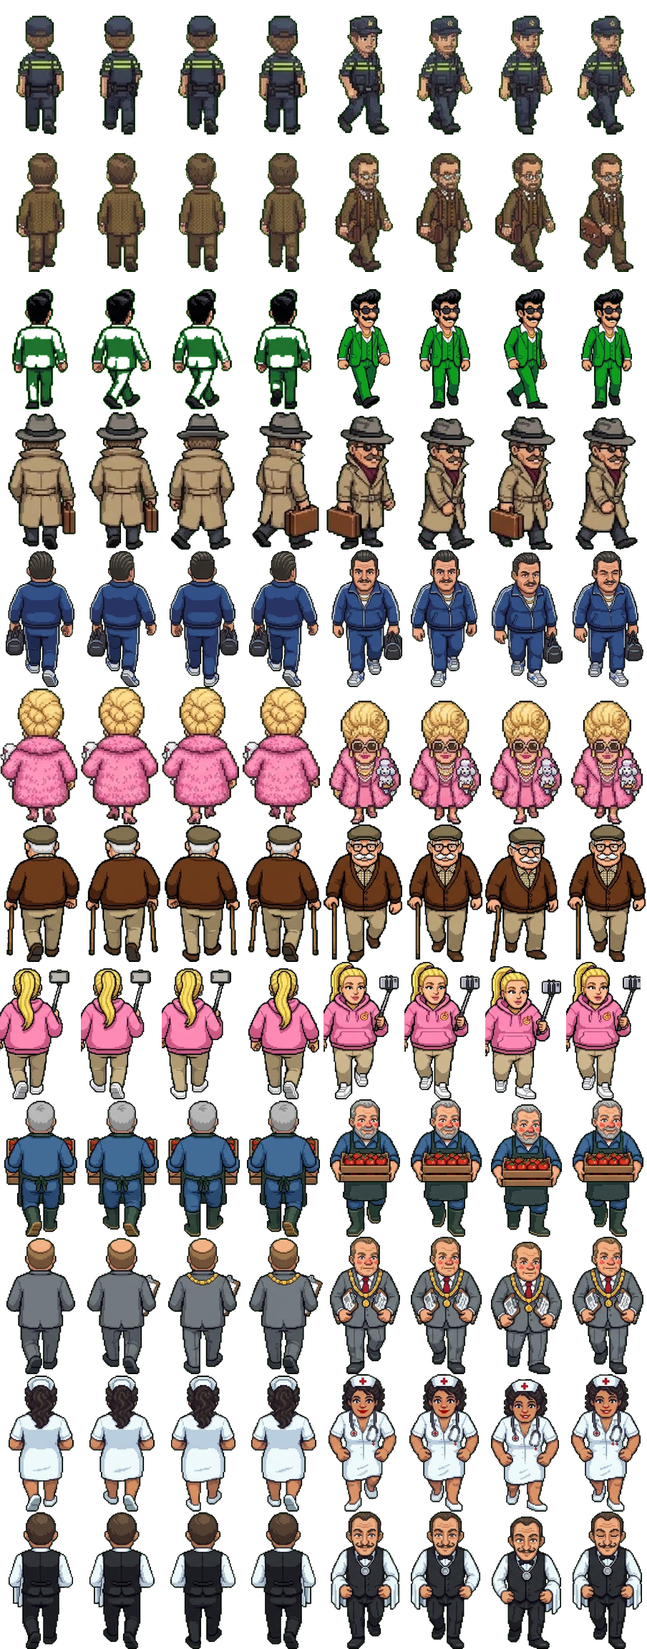
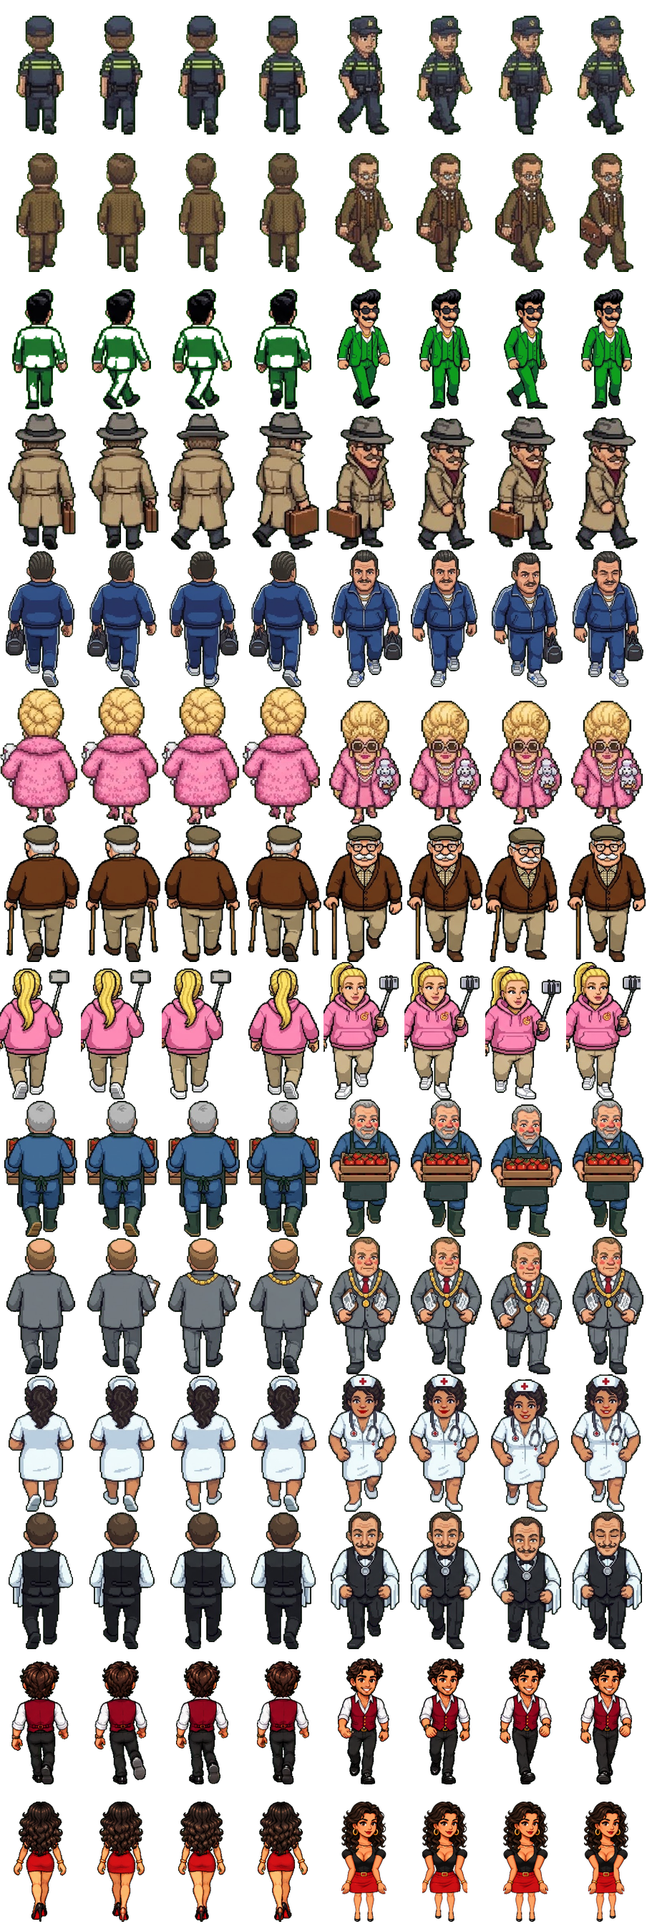
Pizzabaas: verliefd koppel Marco en Valentina (verhaal, filmpjes, plaatjes), Barrie niet langs tijdens een klus
Claude-Session: https://claude.ai/code/session_01A1NZDKEqH4AvFTuhgNYDbP

diff --git a/pizzabaas.html b/pizzabaas.html
@@ -73,7 +73,7 @@
   #vraagkaart { text-align: center; max-width: 400px; animation: plop .25s ease-out; }
   @keyframes plop { from { transform: scale(.7); opacity: 0; } }
   .vraagik { font-size: 54px; line-height: 1.1; }
-  .portret { width: 85px; height: 155px; margin: -6px auto 0; background: url(pizza/portretten.png) 0 0 / 1615px 155px no-repeat; image-rendering: pixelated; } /* agent, inspecteur (uit pizza/agent-gemini.jpg, pizza/inspecteur-gemini.jpg) */
+  .portret { width: 85px; height: 155px; margin: -6px auto 0; background: url(pizza/portretten.png) 0 0 / 1785px 155px no-repeat; image-rendering: pixelated; } /* agent, inspecteur (uit pizza/agent-gemini.jpg, pizza/inspecteur-gemini.jpg) */
   .vraagwie { font-weight: 800; color: #b5381c; font-size: 15px; }
   .vraagtekst { font-size: 17px; margin: 8px 0 12px; }
   .antwoord { display: block; width: 100%; text-align: left; border: 0; background: #f1e1c4; color: #3a2414; border-radius: 12px; padding: 10px 12px; margin: 7px 0 0; font: 600 15px system-ui, sans-serif; cursor: pointer; }
@@ -192,6 +192,10 @@
   <div style="height:56px;margin:4px 0"><button class="knop rood verborgen" id="eetdrink" style="font-size:22px">🥤 Slurp!</button></div>
   <div id="eetklok" style="font:700 28px system-ui">20</div><div id="eetbord" class="buurt" style="margin:6px 0;text-align:left"></div>
   <div class="rij" style="justify-content:center"><button class="knop" id="eetdicht">Sluiten</button></div></div></div>
+<div class="scherm verborgen" id="film" style="z-index:10"><div class="kaart" style="max-width:420px;text-align:center;padding:14px">
+  <h1 id="filmtitel" style="margin:0 0 6px"></h1>
+  <canvas id="filmdoek" width="360" height="420" style="width:100%;max-width:360px;aspect-ratio:6/7;display:block;margin:0 auto;border-radius:12px"></canvas>
+  <div class="rij" style="justify-content:center;margin-top:8px"><button class="knop rood" id="filmverder">Verder (overslaan)</button></div></div></div>
 <div class="scherm verborgen" id="race" style="z-index:10"><div class="kaart" style="max-width:420px;text-align:center;padding:14px">
   <h1 style="margin:0 0 4px">🦼 Scootmobielrace</h1><div id="racetekst" class="buurt" style="margin:0 0 6px"></div>
   <canvas id="racedoek" width="360" height="540" style="width:100%;max-width:360px;aspect-ratio:2/3;display:block;margin:0 auto;border-radius:12px;touch-action:none;cursor:pointer"></canvas>
@@ -681,6 +685,7 @@ function openDeuren() {
   vandaag.aankomst *= (BUURT[S.buurt] || BUURT.oud).aankomst; if (klusLoopt()) vandaag.aankomst *= 1 + KLUS[S.klus.k].bonus; /* Barrie heeft Luigi een hak gezet */ if (torenOpen()) vandaag.aankomst *= 1.1; /* toeristen voor de toren */ if (reclameAan()) vandaag.aankomst *= 1.15; /* reclamebord */ if (kunstAan()) { vandaag.gezellig += 0.5; vandaag.fooi *= 1.1; } /* geleend meesterwerk */ const fd = feestdag(); vandaag.aankomst *= DRUKTE[weekdag()] * (fd ? fd.aankomst : 1); vandaag.kaars = fd && fd.kaars;
   if (belastingDag() && S.belasting > 0) vraagTijden.push(-1); // de inspecteur komt vandaag (een vraag met voorrang)
   if (belastingDag() && S.geld > 400 && S.dag >= 8 && !(S.luigiRust > S.dag) && kans(0.3 + Math.min(0.3, (S.ruzie || 0) / 200))) ochtendVraag(crewVraag(), 2500); // Luigi weet ook wanneer de belasting komt…
+  liefdeOchtend(); // verliefd koppel: Valentina, Luigi, het aanzoek
   if (S.tehuis && weekdag() == 6) ochtendVraag(tehuisVraag(), 3500); // zondag: pizzamiddag in Huize Avondrood
   if (S.luigiDicht == S.dag) { vandaag.aankomst *= S.luigiFlyers ? 1.5 : 1.3; S.luigiFlyers = false; setTimeout(() => meld(`🔧 Luigi's oven is kapot! Zijn klanten komen vandaag naar jou${vandaag.aankomst > 1.4 ? ', en je flyers doen de rest' : ''}.`, 4000), 2000); }
   setTimeout(() => meld(fd ? fd.tekst : ['Maandag: rustig dagje.', '', '', '', 'Vrijdagavond: het wordt druk!', 'Zaterdagavond: de drukste avond van de week!', 'Zondag: gezinnen en opa\'s en oma\'s.'][weekdag()] || ''), 300);
@@ -1604,6 +1609,77 @@ const VRAGEN = [
       ['Alleen als er geen ananas op komt.', () => 'Mario: "Waarom zou ik ananas… o. Ja. Afgesproken."'] ] },
 ];
 // vaste figuren: ze komen echt binnen (rij in pizza/bezoekers.png, portret in pizza/portretten.png; uit pizza/<naam>-gemini.jpg)
+// ---------- verliefd koppel (14 nov): Marco, je jongste ober, en Valentina, de dochter van Luigi ----------
+// S.liefde = { fase, dag, hart?, geheim?, boos? }: 0 = nog niet / later opnieuw (vanaf dag), 1 = Marco is verliefd (Valentina komt), 2 = etentje
+// geweest (Luigi komt erachter), 3 = Luigi weet het (Marco wil aanzoek doen), 5 = getrouwd, 9 = voorbij. Vragen via `liefdeOchtend` (S.verplicht) en
+// 'marco1' (willekeurig, zaak 1). Plaatjes: bezoekers rij 12 Marco / 13 Valentina, portret 19/20, pizza/koppel.png (filmpje `toonFilm`).
+const KOPPEL = new Image(); KOPPEL.src = 'pizza/koppel.png';
+function liefdeOchtend() { const L = S.liefde; if (!L || S.zaak) return; let id = null;
+  if (L.fase == 1 && S.dag >= L.dag + (L.hart ? 1 : 2)) id = 'valentina1';
+  else if (L.fase == 2 && S.dag >= L.dag + 1 + (S.dag % 2)) id = 'luigiLiefde';
+  else if (L.fase == 3 && S.dag >= L.dag + 4) id = 'marco2';
+  if (id && !(S.verplicht || []).includes(id)) S.verplicht = [...(S.verplicht || []), id]; }
+const LIEFDEVRAGEN = [
+  { id: 'marco1', ik: '🤵', portret: 19, rij: 12, wie: 'Marco, je jongste ober', kans: 3, als: () => !S.zaak && S.dag >= 6 && (!S.liefde || (S.liefde.fase == 0 && S.dag >= S.liefde.dag)),
+    vraag: 'Baas… mag ik je iets vragen? Er werkt een meisje bij Luigi. Ze ruimt de tafels af en ze lacht als een zonsopgang. Valentina. Zijn… dochter. Ik geloof dat ik verliefd ben.',
+    a: [['Ga ervoor, Marco!', () => { S.liefde = { fase: 1, dag: S.dag }; return 'Marco straalt. Hij serveert de rest van de avond met een grijns tot achter zijn oren, en zingt zachtjes mee met de jukebox.'; }],
+      ['De dochter van de vijand? Vergeet het maar.', () => { S.liefde = { fase: 0, dag: S.dag + 10 }; oberTempo(0.9); return 'Marco zucht. De hele avond. Diep. Hij laat twee borden vallen en staart naar het raam van Luigi.'; }],
+      ['Stuur haar een pizza met een hartje van salami (€ 10).', () => { ge(-10); S.liefde = { fase: 1, dag: S.dag, hart: true }; return 'Mario bakt de mooiste pizza van zijn leven, met een hartje van salami. Marco brengt hem stiekem naar de achterdeur van Luigi. Spannend…'; }] ] },
+  { id: 'valentina1', ik: '💃', portret: 20, rij: 13, wie: 'Valentina, de dochter van Luigi', als: () => false,
+    vraag: () => `Ciao… Ik ben Valentina. Ja, die van Luigi. Is Marco er? Hij ${S.liefde && S.liefde.hart ? 'stuurde me een pizza met een hartje van salami. Niemand heeft ooit…' : 'staat al een week naar ons raam te staren. Het is schattig. En een beetje eng.'} Mijn vader mag dit nooit weten.`,
+    a: [['Hij is er! Ik dek een tafel voor jullie, met kaarsjes.', () => { S.liefde = { ...S.liefde, fase: 2, dag: S.dag }; naVraag = () => toonFilm('etentje'); return 'Je zet een tafeltje achterin, met een kaarsje en een fles van het huis. Marco trekt zijn mooiste gilet aan.'; }],
+      ['Je vader vermoordt me. Ga maar snel.', () => { S.liefde = { ...S.liefde, fase: 1, dag: S.dag + 3 }; return 'Ze knikt verdrietig en glipt weg. In de keuken laat Marco een stapel borden vallen. Misschien komt ze nog terug…'; }],
+      ['Eerst vertellen: wat is het geheim van Luigi\'s saus?', () => { S.liefde = { ...S.liefde, fase: 2, dag: S.dag, geheim: true }; rep(1); naVraag = () => toonFilm('etentje');
+        return 'Ze buigt zich naar je toe. "Ketchup. Uit een fles. Met een scheutje cola." Je weet niet of je moet lachen of huilen. Daarna dek je een tafeltje voor haar en Marco.'; }] ] },
+  { id: 'luigiLiefde', ik: '😡', portret: 3, rij: 2, wie: 'Luigi (rood aangelopen)', als: () => false,
+    vraag: () => `MIJN DOCHTER?! Met jouw OBER?! Ik heb ze gezien. Door het raam. Met KAARSJES.${S.liefde && S.liefde.geheim ? ' En ze heeft je het geheim van mijn saus verteld?! Mijn eigen vlees en bloed!' : ''} Wat heb je hierop te zeggen?`,
+    a: [['Liefde kent geen grenzen, Luigi.', () => { const L = S.liefde; L.fase = 3; L.dag = S.dag;
+        if (kans(S.ruzie < 30 ? 0.75 : 0.5)) { S.luigiRust = S.dag + 10; S.ruzie = Math.max(0, (S.ruzie || 0) - 20); return 'Luigi wil iets roepen, maar er komt alleen een snik uit. "Dat zei haar moeder ook… dertig jaar geleden." Hij snuit zijn neus in een pizzadoos. Wapenstilstand!'; }
+        L.boos = true; S.ruzie = Math.min(100, (S.ruzie || 0) + 25); S.sabotage = pak(['rat', 'stinkbom']); return '"GRENZEN?! Ik zal jou eens grenzen laten zien!" Hij stormt naar buiten. Morgen kun je iets verwachten. Maar Marco en Valentina laten zich niet tegenhouden.'; }],
+      ['Ik zal Marco ontslaan.', () => { S.liefde = { fase: 9, dag: S.dag }; S.ruzie = Math.max(0, (S.ruzie || 0) - 10); rep(-2); return 'Luigi knikt tevreden. Marco pakt zijn spullen en vertrekt naar zijn tante in Napels. Valentina huilt een week. De hele buurt vindt je harteloos.'; }],
+      ['Dan worden we familie, Luigi!', () => { const L = S.liefde; L.fase = 3; L.dag = S.dag; S.ruzie = Math.min(100, (S.ruzie || 0) + 10); return 'Luigi wordt wit. Dan groen. Dan valt hij flauw, precies in een stapel pizzadozen. Mario zet er een glas water naast.'; }] ] },
+  { id: 'marco2', ik: '💍', portret: 19, rij: 12, wie: 'Marco, je jongste ober', als: () => false,
+    vraag: () => `Baas. Ik ga Valentina ten huwelijk vragen. Hier, in jouw zaak. ${S.liefde && S.liefde.boos ? 'Haar vader is nog steeds woedend, maar ze zegt: liefde wint.' : 'Zelfs Luigi heeft zijn zegen gegeven… nou ja, hij gromde.'} Mag ik de ring in een calzone verstoppen?`,
+    a: [['Natuurlijk! En de bruiloft vieren we hier!', () => { const L = S.liefde; L.fase = 5; L.dag = S.dag; S.dicht = 'De zaak was afgehuurd voor de bruiloft van Marco en Valentina!'; ge(500); rep(4);
+        let t = 'Valentina bijt bijna een tand stuk op de ring, en zegt JA! Morgen is de bruiloft in jouw zaak (gewone klanten blijven buiten): + € 500 van de gasten.';
+        if (!L.boos || kans(0.5)) { S.luigiRust = S.dag + 30; S.ruzie = 0; L.vrede = true; t += ' En Luigi? Die huilt de hele avond van geluk en danst met Mario. Een maand lang vrede!'; }
+        else { S.ruzie = Math.min(100, (S.ruzie || 0) + 10); t += ' Luigi staat buiten met een bord: "NOOIT!". Maar binnen danst iedereen.'; }
+        naVraag = () => toonFilm('bruiloft'); return t; }],
+      ['Doe het maar bij Luigi, daar is meer plek.', () => { S.liefde = { ...S.liefde, fase: 5, dag: S.dag, vrede: true }; S.luigiRust = S.dag + 14; S.ruzie = Math.max(0, (S.ruzie || 0) - 15); return 'De bruiloft is bij Luigi. Hij betaalt alles, en zet een bord in zijn raam: "Met dank aan de buren." De ruzie zakt flink.'; }],
+      ['Nog even wachten, Marco. Het gaat zo snel.', () => { S.liefde.dag = S.dag + 2; return '"Je hebt gelijk, baas." Hij oefent nog een week zijn knieval in de koelcel.'; }] ] } ];
+// het filmpje: etentje (kaarsjes, Luigi gluurt door het raam) of bruiloft (confetti)
+function toonFilm(soort) {
+  pauze = true; $('film').classList.remove('verborgen'); $('filmtitel').textContent = soort == 'bruiloft' ? '💍 De bruiloft' : '🕯 Een tafeltje voor twee';
+  const c = $('filmdoek'), g2 = c.getContext('2d'), W2 = 360, H2 = 420, start = performance.now(), duur = soort == 'bruiloft' ? 9 : 10;
+  const zinnen = soort == 'bruiloft' ? [[0, 'Marco en Valentina zeggen JA!'], [3, 'Mario bakt een taart van pizza.'], [6, S.liefde && S.liefde.vrede ? 'Luigi huilt van geluk…' : 'Luigi staat buiten met een bord…']]
+    : [[0, 'Marco schenkt in. Zijn handen trillen.'], [3, 'Valentina lacht om een slechte grap.'], [6, 'Ze delen de laatste punt…'], [8.2, '…maar wie kijkt daar door het raam?!']];
+  speelLied(soort == 'bruiloft' ? 'vincero' : 'donna'); const confetti = Array.from({ length: 60 }, () => ({ x: Math.random() * W2, y: -Math.random() * H2, v: 40 + Math.random() * 60, k: pak(['#e74c3c', '#f1c40f', '#2ecc71', '#fff', '#ff6fa5']) }));
+  $('filmverder').onclick = () => { $('film').classList.add('verborgen'); pauze = false; };
+  (function lus(nu) {
+    if ($('film').classList.contains('verborgen')) return; const t = (nu - start) / 1000;
+    g2.fillStyle = soort == 'bruiloft' ? '#fbe3ec' : '#3b2418'; g2.fillRect(0, 0, W2, H2);
+    // raam met de nacht (of bloemen)
+    g2.fillStyle = soort == 'bruiloft' ? '#fff' : '#152238'; g2.fillRect(120, 30, 120, 90); g2.strokeStyle = '#6b4a2b'; g2.lineWidth = 6; g2.strokeRect(120, 30, 120, 90); g2.beginPath(); g2.moveTo(180, 30); g2.lineTo(180, 120); g2.stroke();
+    if (soort != 'bruiloft') { g2.fillStyle = '#fff8'; for (let i = 0; i < 6; i++) g2.fillRect(130 + (i * 37) % 100, 40 + (i * 23) % 60, 2, 2); }
+    else { g2.font = '26px system-ui'; g2.textAlign = 'center'; g2.fillText('💐 💒 💐', 180, 85); }
+    // Luigi gluurt (etentje, aan het eind) of huilt / bord (bruiloft)
+    if (BEZOEK.complete && ((soort != 'bruiloft' && t > 8) || (soort == 'bruiloft' && t > 6))) { g2.save(); g2.beginPath(); g2.rect(123, 33, 114, 84); g2.clip(); g2.drawImage(BEZOEK, 4 * 113, 2 * 192, 113, 192, 150, 40, 60, 102); g2.restore();
+      g2.font = 'bold 30px system-ui'; g2.textAlign = 'center'; g2.fillStyle = '#e74c3c'; if (soort != 'bruiloft') g2.fillText('!!', 250, 60); else g2.fillText(S.liefde && S.liefde.vrede ? '😭' : '🪧', 250, 70); }
+    // tafel met kleed en kaars
+    g2.fillStyle = '#fff'; g2.fillRect(80, 300, 200, 18); g2.fillStyle = '#e9e1d2'; g2.fillRect(80, 318, 200, 70); g2.fillStyle = '#c0392b'; for (let i = 0; i < 10; i++) g2.fillRect(80 + i * 20, 318, 10, 70);
+    if (soort != 'bruiloft') { g2.fillStyle = '#f5f0e0'; g2.fillRect(176, 270, 8, 30); const fl = 1 + Math.sin(t * 13) * 0.15; g2.fillStyle = '#ffb700'; g2.beginPath(); g2.ellipse(180, 262, 4 * fl, 9 * fl, 0, 0, 7); g2.fill(); }
+    else { g2.font = '40px system-ui'; g2.textAlign = 'center'; g2.fillText('🎂', 180, 300); }
+    // Marco links, Valentina rechts (zitten: 0 zit, 1 pizza, 2 benen over elkaar, 3 wijn)
+    const vol = [0, 3, 1, 3, 2, 0], f = vol[Math.floor(t / 1.6) % vol.length], fv = vol[(Math.floor(t / 1.6) + 2) % vol.length];
+    if (KOPPEL.complete && KOPPEL.naturalWidth) { g2.drawImage(KOPPEL, f * 200, 0, 200, 260, -5, 140, 160, 208); g2.drawImage(KOPPEL, fv * 200, 260, 200, 260, 205, 140, 160, 208); }
+    // hartjes of confetti
+    g2.font = '20px system-ui'; g2.textAlign = 'center';
+    if (soort != 'bruiloft') for (let i = 0; i < 5; i++) { const y = 260 - ((t * 30 + i * 50) % 200); g2.globalAlpha = Math.min(1, y / 120); g2.fillText('❤', 150 + Math.sin(t * 2 + i) * 30 + i * 12, y); } else for (const k of confetti) { k.y += k.v / 60; if (k.y > H2) k.y = -10; g2.fillStyle = k.k; g2.fillRect(k.x, k.y, 5, 8); }
+    g2.globalAlpha = 1; const z = zinnen.filter(([s]) => t >= s).pop(); if (z) { g2.fillStyle = '#000a'; g2.fillRect(0, H2 - 44, W2, 44); g2.fillStyle = '#fff'; g2.font = '16px system-ui'; g2.fillText(z[1], 180, H2 - 17); }
+    if (t > duur) $('filmverder').textContent = 'Verder'; requestAnimationFrame(lus);
+  })(performance.now());
+}
+VRAGEN.push(...LIEFDEVRAGEN);
 const FIGUUR = {
   henk: { wie: 'Opa Henk', rij: 6, portret: 7, ids: ['gebit', 'snurk', 'snorren', 'henkdans', 'henkverhaal'] },
   kim: { wie: 'Kimberley, influencer', rij: 7, portret: 8, ids: ['influencer', 'champagne', 'prank', 'kimnaam', 'kimsaai'] },
@@ -1657,7 +1733,7 @@ function haakPlek() { // waar je moet staan om de sleutel te pakken: naast het s
 function naarAchter() { achterPauze = true; S.achterDag = S.dag; vandaag.sleutelWeg = true; bewaar(); tekenKnoppen(); toonAchterkamer(); }
 function kamerBezoek() { // wie komt er vandaag voor de achterkamer (of niemand)? Een droge vervalsing wordt opgehaald
   const droogLigt = (S.vervalsingen || []).some((f) => f.dag < S.dag);
-  if (S.barrie && kans(0.2)) return 'barrieLangs';
+  if (S.barrie && !klusLoopt() && kans(0.2)) return 'barrieLangs'; // niet als er nog een klus loopt: dan valt er niks te kiezen
   if (!S.zaak) return droogLigt ? (kans(0.75) ? (kans(0.35) ? 'gravin' : 'koper') : null) : kans(0.4) ? 'gerritlangs' : null;
   return kans(0.4) ? { studenten: 'kamerStudent', toeristen: 'kamerGokker', villa: 'kamerHeer' }[S.buurt] || null : null;
 }

diff --git a/extra/koppel_knip.py b/extra/koppel_knip.py
@@ -1,0 +1,37 @@
+# Marco en Valentina (verhaallijn verliefd koppel, 14 nov): uit de ChatGPT-vellen naar bezoekers.png (rij 12/13), portretten.png (19/20) en koppel.png.
+# Gebruik: python3 extra/koppel_knip.py   (Valentina van voren lopen komt uit: python3 extra/poppetjes_voor.py valentina /tmp -> lopen-voor-valentina.png)
+import sys, os, numpy as np
+from PIL import Image
+sys.path.insert(0, os.path.dirname(__file__)); from groen_vormen import vormen, knip
+VOOR = sys.argv[1] if len(sys.argv) > 1 else '/tmp/lopen-voor-valentina.png'
+ma, mg, mv = vormen('pizza/marco-chatgpt.png'); va, vg, vv = vormen('pizza/valentina-chatgpt.png')
+M = lambda i: knip(ma, mg, mv[i]); V = lambda i: knip(va, vg, vv[i])
+def ontgroen(im):  # groene randjes en vlekjes (haar) weg
+    a = np.array(im).astype(int); r, g, b = a[..., 0], a[..., 1], a[..., 2]; m = (g > r + 30) & (g > b + 30); a[m, 3] = 0; return Image.fromarray(a.astype(np.uint8))
+def vak(im, w, h, hoogte, voet):
+    im = ontgroen(im); s = hoogte / im.size[1]; im = im.resize((round(im.size[0] * s), hoogte), Image.LANCZOS)
+    if im.size[0] > w - 2: im = im.resize((w - 2, round(im.size[1] * (w - 2) / im.size[0])), Image.LANCZOS)
+    o = Image.new('RGBA', (w, h)); o.alpha_composite(im, ((w - im.size[0]) // 2, voet - im.size[1])); return o
+# bezoekers.png: 0-3 rug (naar binnen), 4-7 van voren
+bz = Image.open('pizza/bezoekers.png').convert('RGBA'); rijen = bz.size[1] // 192
+nieuw = Image.new('RGBA', (bz.size[0], max(rijen, 14) * 192)); nieuw.alpha_composite(bz.crop((0, 0, bz.size[0], 12 * 192)))
+for c, i in enumerate([8, 9, 10, 11]): nieuw.alpha_composite(vak(M(i), 113, 192, 172, 189), (c * 113, 12 * 192))
+for c, i in enumerate([12, 14, 16, 18]): nieuw.alpha_composite(vak(M(i), 113, 192, 176, 189), ((4 + c) * 113, 12 * 192))
+for c, i in enumerate([6, 7, 8, 9]): nieuw.alpha_composite(vak(V(i), 113, 192, 168, 189), (c * 113, 13 * 192))
+lv = Image.open(VOOR).convert('RGBA')
+for c in range(4): nieuw.alpha_composite(vak(lv.crop((c * 113, 0, (c + 1) * 113, 192)).crop(lv.crop((c * 113, 0, (c + 1) * 113, 192)).getbbox()), 113, 192, 168, 189), ((4 + c) * 113, 13 * 192))
+nieuw.save('pizza/bezoekers.png')
+# portretten.png: bovenlijf van het zittende plaatje met het wijnglas
+pt = Image.open('pizza/portretten.png').convert('RGBA'); n = pt.size[0] // 170; pn = Image.new('RGBA', (max(n, 21) * 170, 310)); pn.alpha_composite(pt.crop((0, 0, 19 * 170, 310)))
+for j, im in ((19, M(22)), (20, V(13))):
+    im = ontgroen(im); boven = im.crop((0, 0, im.size[0], round(im.size[1] * 0.62))); s = 168 / boven.size[0]
+    boven = boven.resize((168, round(boven.size[1] * s)), Image.LANCZOS)
+    if boven.size[1] > 250: boven = boven.crop((0, 0, 168, 250))
+    pn.alpha_composite(boven, (j * 170 + 1, 310 - boven.size[1]))
+pn.save('pizza/portretten.png')
+# koppel.png (vakjes 200 x 260): rij 0 Marco zitten (0 zit, 1 pizza, 2 benen over elkaar, 3 wijn), rij 1 Valentina idem, rij 2 Valentina opzij lopen (0-5)
+kp = Image.new('RGBA', (200 * 6, 260 * 3))
+for c, i in enumerate([19, 20, 21, 22]): kp.alpha_composite(vak(M(i), 200, 260, 240, 256), (c * 200, 0))
+for c, i in enumerate([10, 11, 12, 13]): kp.alpha_composite(vak(V(i), 200, 260, 230, 256), (c * 200, 260))
+for c, i in enumerate([0, 1, 2, 3, 4, 5]): kp.alpha_composite(vak(V(i), 200, 260, 250, 256), (c * 200, 520))
+kp.save('pizza/koppel.png'); print('klaar', nieuw.size, pn.size, kp.size)

diff --git a/extra/poppetjes_voor.py b/extra/poppetjes_voor.py
@@ -26,6 +26,8 @@ FIG = {  # nummers = losse vormpjes op het vel (van boven naar beneden, links na
                    beenschaal=0.95, achter=(7,), paar=0.0, kapjes=(40, 62, 120), breed=1.0),  # hele broek per paar: doormidden
   'dame2': dict(voor='pizza/dame2-onderdelen-chatgpt.png', benen='pizza/dame2-onderdelen-chatgpt.png', hoofd=2, romp=1, arm=(4, 3), been=(5, 6),
                 beenschaal=0.62, achter=(7, 8), jurk=True),  # nieuwe gast: dame in rood (nog geen eigen klantrij)
+  'valentina': dict(voor='pizza/valentina-onderdelen-chatgpt.png', benen='pizza/valentina-onderdelen-chatgpt.png', hoofd=2, romp=1, arm=(4, 3), been=(5, 6),
+                    beenschaal=0.62, achter=(7, 8), jurk=True, nek=52, armx=14, armschaal=0.88, army=-6),  # Luigi's dochter (verhaallijn verliefd koppel, 14 nov)
   'chinese2': dict(voor='pizza/chinese2-onderdelen-chatgpt.png', benen='pizza/chinese2-onderdelen-chatgpt.png', hoofd=2, romp=1, arm=(4, 3), been=(5, 6),
                    beenschaal=0.62, achter=(7, 8), jurk=True, kapjes=(200, 30, 28), vlak=True, nek=55),  # tweede versie: de helft van de Chinese dames  # de jurk (romp) loopt tot de knie; de benen zijn knie-tot-schoen
 }
@@ -84,7 +86,8 @@ def houding(F, voor, benen, s):  # s = -1 … 1: welk been stapt naar voren
         if til: b = b.resize((b.size[0], round(b.size[1] - til)), Image.LANCZOS)
         zet(b, (-1 if i == 0 else 1) * (b.size[0] * F.get('breed', 0.47) if F.get('paar') else romp.size[0] * (0.17 if F.get('jurk') else 0.24)), -12 - (22 if F.get('jurk') or F.get('paar') else 0))
     zet(romp, 0, -romp.size[1] + 10)
-    for i, a in enumerate(armen): zet(a, (-1 if i == 0 else 1) * (romp.size[0] / 2 - 28), -romp.size[1] + 70, hoek=(6 if i == 0 else -6) * s)
+    if F.get('armschaal'): armen = [x.resize((round(x.size[0] * F['armschaal']), round(x.size[1] * F['armschaal'])), Image.LANCZOS) for x in armen]
+    for i, a in enumerate(armen): zet(a, (-1 if i == 0 else 1) * (romp.size[0] / 2 - 28 + F.get('armx', 0)), -romp.size[1] + 70 + F.get('army', 0), hoek=(6 if i == 0 else -6) * s)  # armx: armen verder naar buiten
     zet(hoofd, 0, -romp.size[1] - hoofd.size[1] + 42 + F.get('nek', 0))  # nek: hoofd verder omlaag (hoofd en jurk hebben allebei een kraagje)
     return doek.crop(doek.getbbox())
 if __name__ == '__main__':

diff --git a/extra/groen_vormen.py b/extra/groen_vormen.py
@@ -1,0 +1,23 @@
+# losse figuren op een groen vel: componenten (met een beetje dilatie zodat losse pixels bij hun figuur horen), gesorteerd in rijen
+import sys, numpy as np
+from PIL import Image, ImageFilter
+from scipy import ndimage
+def vormen(pad, min_opp=3000):
+    a = np.array(Image.open(pad).convert('RGB')).astype(int); r, g, b = a[..., 0], a[..., 1], a[..., 2]
+    groen = (g > 140) & (g > r + 50) & (g > b + 50); vol = ~groen
+    vol = ndimage.binary_opening(vol, iterations=1); lab, n = ndimage.label(ndimage.binary_dilation(vol, iterations=4))
+    uit = []
+    for i, sl in enumerate(ndimage.find_objects(lab), 1):
+        m = (lab[sl] == i) & vol[sl]
+        if m.sum() < min_opp: continue
+        uit.append((sl[0].start, sl[0].stop, sl[1].start, sl[1].stop))
+    uit.sort(key=lambda v: (v[0] // 120, v[2]))
+    return a, groen, uit
+def knip(a, groen, box):
+    y0, y1, x0, x1 = box; s = a[y0:y1, x0:x1].copy(); gm = groen[y0:y1, x0:x1]
+    r, g, b = s[..., 0], s[..., 1], s[..., 2]; rand = (g > r + 20) & (g > b + 20) & ~gm; s[..., 1] = np.where(rand, np.maximum(r, b), g)
+    alfa = np.where(gm, 0, 255).astype(np.uint8); im = Image.fromarray(np.dstack([s, alfa]).astype(np.uint8))
+    return im.crop(im.getbbox())
+if __name__ == '__main__':
+    a, gm, v = vormen(sys.argv[1])
+    for i, b in enumerate(v): print(i, b, 'h', b[1] - b[0], 'w', b[3] - b[2])

diff --git a/pizza/CLAUDE.md b/pizza/CLAUDE.md
@@ -504,3 +504,17 @@ de vervolgvraag van 'kat' (C, "Hij heet vanaf nu Pepperoni") zet `S.pepperoni`; 
 `tekenKat`: dwalen, soms slapen 💤), jaagt op de rat en vangt hem (gezellig +1), en aaien = spinnen (😻, gezellig +0,2 één keer per dag).
 Geheime combinatie: oven → bel van de uitgifte → jukebox binnen 8 s (`tikReeks`) = Mario zingt Nessun dorma, klanten roepen bravo, gezellig +0,5
 (één keer per dag, `operaDag`).
+Barrie komt niet meer langs als er nog een klus loopt (`kamerBezoek`: `!klusLoopt()`), en in de achterkamer zegt hij tot wanneer de klus loopt.
+Verliefd koppel (14 nov, plaatjes van Marcel via ChatGPT: `pizza/marco-chatgpt.png`, `pizza/valentina-chatgpt.png`, `pizza/valentina-onderdelen-chatgpt.png`):
+Marco (je jongste ober, rood gilet) en Valentina (Luigi's dochter). Knippen: `python3 extra/poppetjes_voor.py valentina /tmp` (lopen naar voren uit het
+onderdelenvel; nieuwe opties `nek`, `armx`, `army`, `armschaal`) en dan `python3 extra/koppel_knip.py /tmp/lopen-voor-valentina.png` (gebruikt
+`extra/groen_vormen.py`, scipy): bezoekers.png rij 12 Marco / 13 Valentina (0-3 rug, 4-7 voor; nu 14 rijen), portretten.png 19 Marco / 20 Valentina
+(bovenlijf met wijnglas; nu 21 vakjes, css 1785px), `pizza/koppel.png` (vakjes 200x260: rij 0 Marco zitten 0 zit/1 pizza/2 benen over elkaar/3 wijn,
+rij 1 Valentina idem, rij 2 Valentina opzij lopen 0-5, nog niet gebruikt). Verhaal (`LIEFDEVRAGEN`, `S.liefde` = { fase, dag, hart, geheim, boos,
+vrede }, `liefdeOchtend()` in `openDeuren` zet de volgende vraag in `S.verplicht`; alleen zaak 1): 'marco1' (willekeurig vanaf dag 6: ga ervoor / vergeet
+het (opnieuw na 10 dagen) / pizza met hartje € 10) → 'valentina1' (1-2 dagen later: tafel met kaarsjes = filmpje `toonFilm('etentje')` / wegsturen
+(over 3 dagen weer) / eerst het geheim van Luigi's saus (ketchup met cola)) → 'luigiLiefde' (Luigi ontdekt het: liefde kent geen grenzen = 50-75%
+vrede 10 dagen, anders ruzie +25 en sabotage / Marco ontslaan = einde (fase 9), rep −2 / "dan worden we familie" = Luigi valt flauw) → 'marco2'
+(4 dagen later, aanzoek met de ring in een calzone: bruiloft hier = morgen dicht, + € 500, rep +4, filmpje `toonFilm('bruiloft')`, vaak een maand vrede /
+bij Luigi = vrede 14 dagen / nog wachten). Filmpje: scherm `#film`, canvas `#filmdoek` 360x420, zelf getekend (raam, tafel, kaars, hartjes of confetti),
+Luigi gluurt door het raam, muziek `speelLied`.

diff --git a/pizza/PLAN.md b/pizza/PLAN.md
@@ -314,7 +314,7 @@ menukaart met verkopen, andere kosten uitgesplitst, beurstip bij Sjonnie, app Fo
 wraak van Luigi met keuzes (kleerkasten), inbraak, beslag op de bankrekening, kalenderblad, Luigi's crew op belastingdag + nepgeld, tips van Gino,
 pinnen (inkoop van de bank), leenmaximum op de weekomzet.
 Spel:
-- Smokkeltruffel via Barrie; ober verliefd op Luigi's dochter.
+- Smokkeltruffel via Barrie. (Ober verliefd op Luigi's dochter: gedaan 14 nov, Marco en Valentina; later misschien: ze krijgen samen een eigen zaak, of Valentina werkt bij jou.)
 - Plein: selfiemuur of straatmuzikant.
 - Duurdere moderne oven; toonbank/kassa uit de vellen.
 - Gino's tips ook in de andere zaken? (nu alleen de eerste zaak, Luigi zit daar tegenover)
